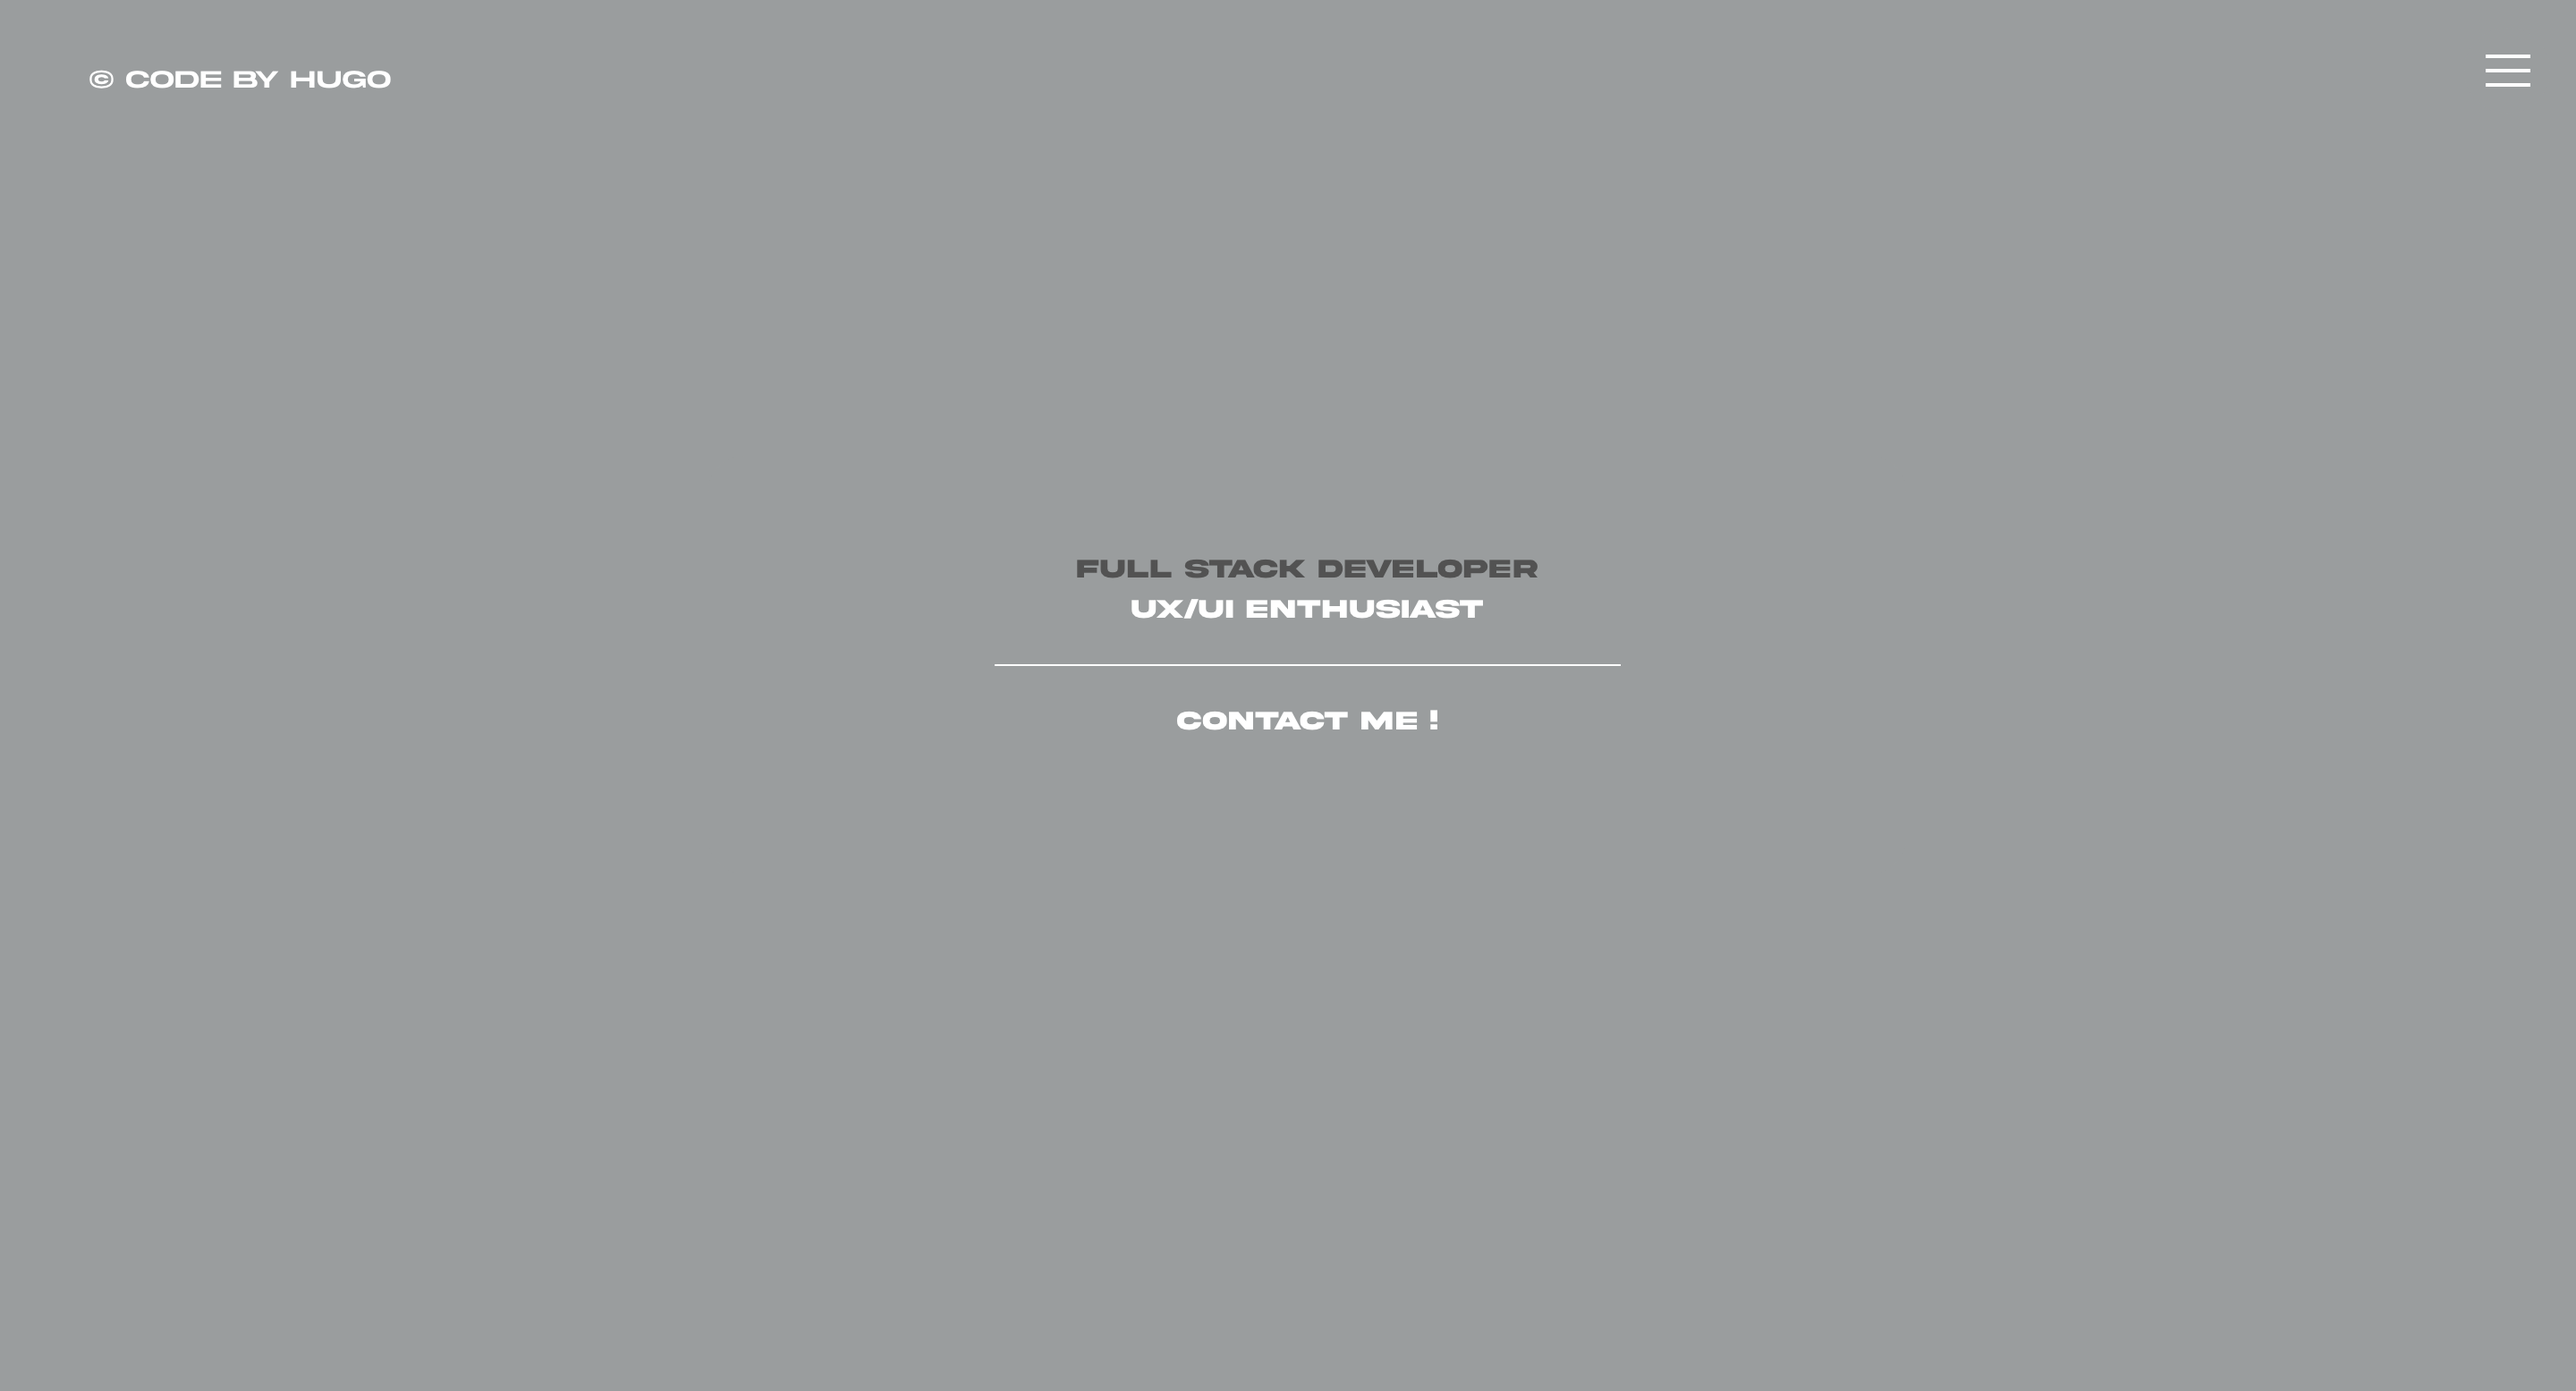
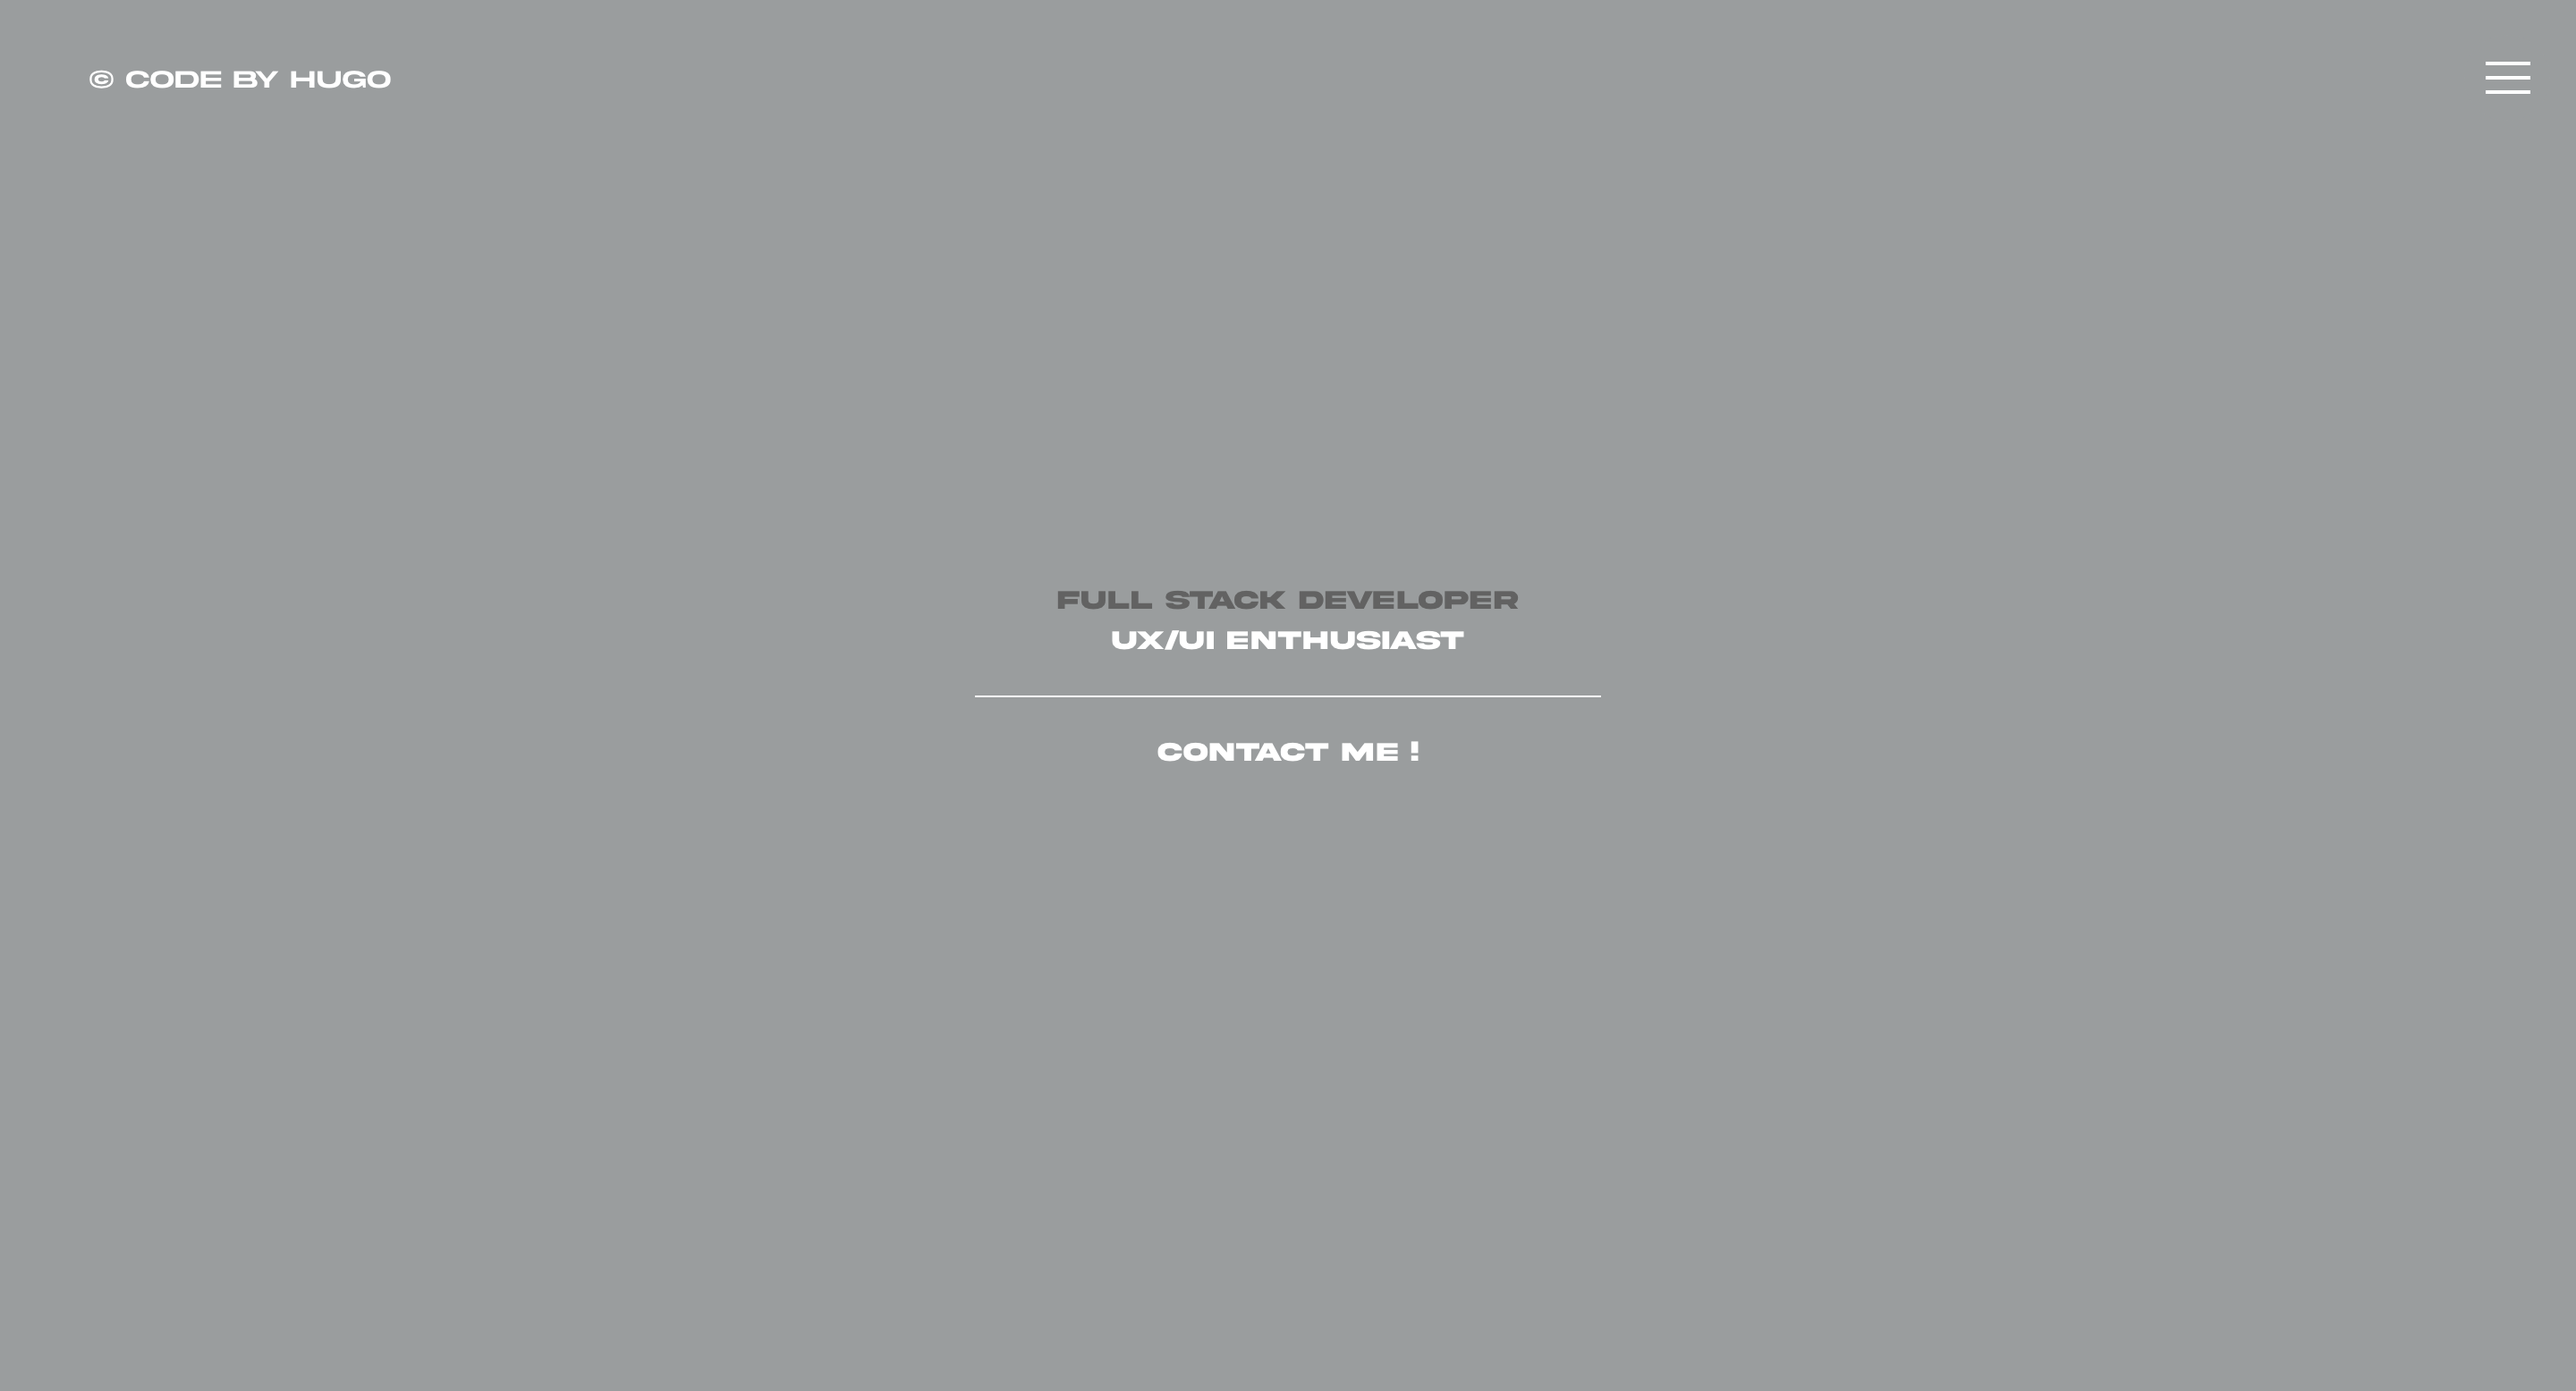
portfolio - backgroud gradiant for home

Changed region(s): [[0.4062, 0.401, 0.5938, 0.5553], [0.9688, 0.0308, 1.0, 0.0617]]

diff --git a/portfolio-hugo-varloud-meyer/src/components/Projects/Projects.css b/portfolio-hugo-varloud-meyer/src/components/Projects/Projects.css
@@ -1,4 +1,4 @@
-.slidingImages {
+/* .slidingImages {
     display: flex;
     flex-direction: column;
     gap: 3vw;
@@ -7,7 +7,7 @@
     margin-top: 100px;
     background-color: white;
     z-index: 1;
-}
+}*/
 
 .slider {
     position: absolute;
@@ -27,8 +27,8 @@
     height: 100%;
 }
 .slidingImages .slider .project {
-    width: 30%;
-    height: 20vw;
+    width: 35%;
+    height: 25vw;
     display: flex;
     align-items: center;
     justify-content: center;
@@ -53,35 +53,35 @@
     z-index: 1;
     position: absolute;
     box-shadow: 0px 60px 50px rgba(0, 0, 0, 0.748);
-}
+} 
 
-    .slidingImages {
-        display: flex;
-        flex-direction: column;
-        gap: 5vw;
-        position: relative;
-        overflow: hidden;
-        margin-top: 100px;
-        background-color: white;
-        z-index: 1;
-    }
-    .slidingImages .slider .project .imageContainer {
-        position: relative;
-        width: 90%;
-        height: 90%;
-    }
-    .slidingImages .slider .project {
-        width: 35%;
-        height: 25vw;
-        display: flex;
-        align-items: center;
-        justify-content: center;
-    }
-    .slidingImages .slider {
-        display: flex;
-        position: relative;
-        gap: 0vw;
-        width: 150vw;
-        left: -35vw;
-        margin-top: 15px;
-    }
+.slidingImages {
+    display: flex;
+    flex-direction: column;
+    gap: 5vw;
+    position: relative;
+    overflow: hidden;
+    margin-top: 100px;
+    background-color: white;
+    z-index: 1;
+}
+.slidingImages .slider .project .imageContainer {
+    position: relative;
+    width: 90%;
+    height: 90%;
+}
+.slidingImages .slider .project {
+    width: 35%;
+    height: 25vw;
+    display: flex;
+    align-items: center;
+    justify-content: center;
+}
+.slidingImages .slider {
+    display: flex;
+    position: relative;
+    gap: 0vw;
+    width: 150vw;
+    left: -35vw;
+    margin-top: 15px;
+}

diff --git a/portfolio-hugo-varloud-meyer/src/components/Home/Home.css b/portfolio-hugo-varloud-meyer/src/components/Home/Home.css
@@ -10,7 +10,8 @@
 
 .home-section {
     height: 100vh;
-	background-color: #999d9e;
+	background: rgb(228,228,228);
+	background: radial-gradient(circle, rgba(228,228,228,1) 0%, rgba(128,128,128,1) 100%);
 }
 
 .title-container {
